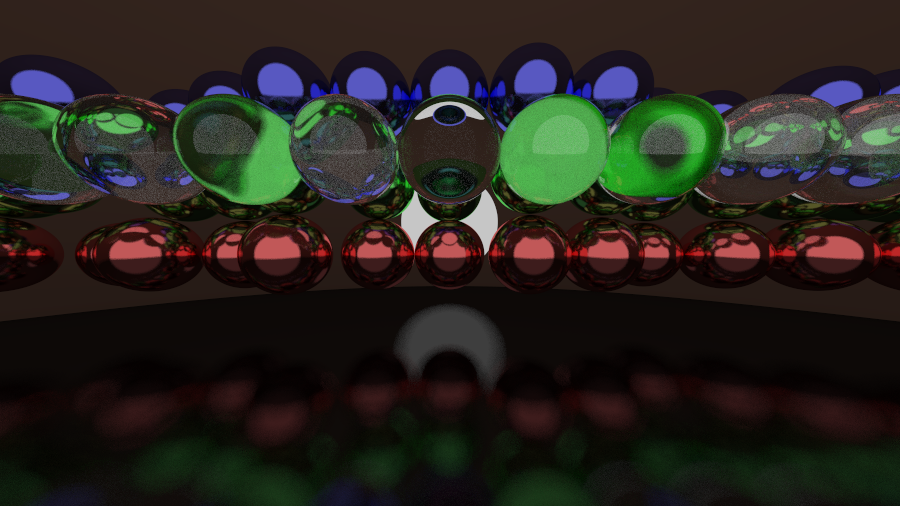
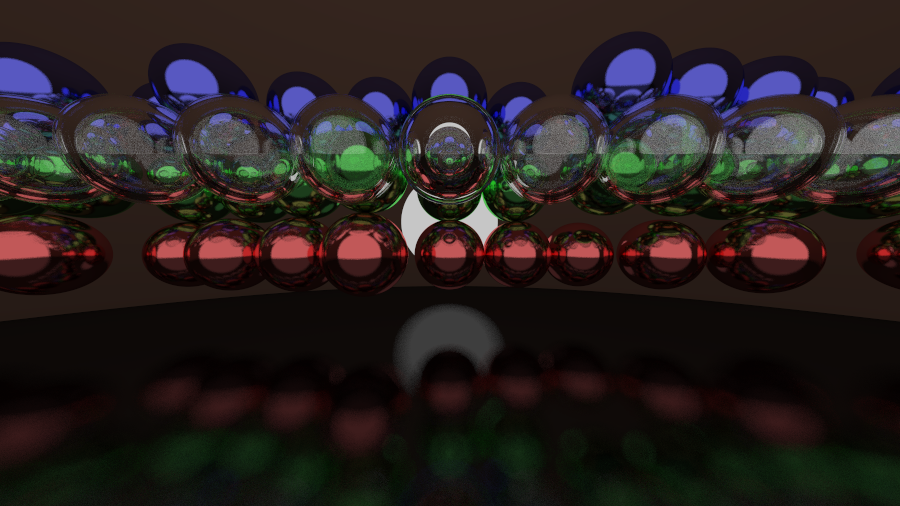
Added fov and make result reproducible

diff --git a/src/scene.rs b/src/scene.rs
@@ -8,51 +8,65 @@ use crate::*;
 pub const OUTPUT_NAME: &str = "scene_output.png";
 
 // Rendering settings
-pub const ASPECT_RATION: f32 = 16.0 / 9.0;
+pub const ASPECT_RATIO: f32 = 16.0 / 9.0;
 pub const WIDTH: usize = 900;
-pub const HEIGHT: usize = (WIDTH as f32 / ASPECT_RATION) as usize;
+pub const HEIGHT: usize = (WIDTH as f32 / ASPECT_RATIO) as usize;
 pub const SAMPLE_PER_PIXEL: usize = 100;
 pub const MAX_DEPTH: usize = 50;
 
 // Material definition
-pub const MATERIAL_GROUND: Lambertian = Lambertian::new(Color::new(0.8, 0.8, 0.0));
-pub const MATERIAL_CENTER: Lambertian = Lambertian::new(Color::new(0.1, 0.2, 0.5));
-pub const MATERIAL_LEFT: Dielectic = Dielectic::new(1.5);
-pub const MATERIAL_RIGHT: Metal = Metal::new(Color::new(0.8, 0.6, 0.2), 0.0);
+pub const MATERIAL_LEFT: Lambertian = Lambertian::new(Color::new(0.0, 0.0, 1.0));
+pub const MATERIAL_RIGHT: Lambertian = Lambertian::new(Color::new(1.0, 0.0, 0.0));
+// pub const MATERIAL_GROUND: Lambertian = Lambertian::new(Color::new(0.8, 0.8,
+// 0.0)); pub const MATERIAL_CENTER: Lambertian =
+// Lambertian::new(Color::new(0.1, 0.2, 0.5)); pub const MATERIAL_LEFT:
+// Dielectic = Dielectic::new(1.5); pub const MATERIAL_RIGHT: Metal =
+// Metal::new(Color::new(0.8, 0.6, 0.2), 0.0);
 
 // Object creation
 pub fn init_world_and_camera() {
     let mut world = HittableList::default();
+    // world.add(Box::new(Sphere::new(
+    //     glm::vec3(0.0, -100.5, -1.0),
+    //     100.0,
+    //     Arc::new(MATERIAL_GROUND),
+    // )));
+    // world.add(Box::new(Sphere::new(
+    //     glm::vec3(0.0, 0.0, -1.0),
+    //     0.5,
+    //     Arc::new(MATERIAL_CENTER),
+    // )));
+    // world.add(Box::new(Sphere::new(
+    //     glm::vec3(-1.0, 0.0, -1.0),
+    //     0.5,
+    //     Arc::new(MATERIAL_LEFT),
+    // )));
+    // world.add(Box::new(Sphere::new(
+    //     glm::vec3(-1.0, 0.0, -1.0),
+    //     -0.4,
+    //     Arc::new(MATERIAL_LEFT),
+    // )));
+    // world.add(Box::new(Sphere::new(
+    //     glm::vec3(1.0, 0.0, -1.0),
+    //     0.5,
+    //     Arc::new(MATERIAL_RIGHT),
+    // )));
+    let r = (std::f32::consts::PI / 4.0).cos();
     world.add(Box::new(Sphere::new(
-        glm::vec3(0.0, -100.5, -1.0),
-        100.0,
-        Arc::new(MATERIAL_GROUND),
-    )));
-    world.add(Box::new(Sphere::new(
-        glm::vec3(0.0, 0.0, -1.0),
-        0.5,
-        Arc::new(MATERIAL_CENTER),
-    )));
-    world.add(Box::new(Sphere::new(
-        glm::vec3(-1.0, 0.0, -1.0),
-        0.5,
+        glm::vec3(-r, 0.0, -1.0),
+        r,
         Arc::new(MATERIAL_LEFT),
     )));
     world.add(Box::new(Sphere::new(
-        glm::vec3(-1.0, 0.0, -1.0),
-        -0.4,
-        Arc::new(MATERIAL_LEFT),
-    )));
-    world.add(Box::new(Sphere::new(
-        glm::vec3(1.0, 0.0, -1.0),
-        0.5,
+        glm::vec3(r, 0.0, -1.0),
+        r,
         Arc::new(MATERIAL_RIGHT),
     )));
     if WORLD.set(world).is_err() {
         panic!("Tried to set WORLD twice. This is a bug");
     }
 
-    let camera = Camera::new();
+    let camera = Camera::new(90.0, ASPECT_RATIO);
     if CAMERA.set(camera).is_err() {
         panic!("Tried to set CAMERA twice. This is a bug");
     }

diff --git a/src/my_scene.rs b/src/my_scene.rs
@@ -7,9 +7,9 @@ use crate::*;
 // Give a name to the output file. Png is the recommended file format
 pub const OUTPUT_NAME: &str = "my_scene_output.png";
 
-pub const ASPECT_RATION: f32 = 16.0 / 9.0;
+pub const ASPECT_RATIO: f32 = 16.0 / 9.0;
 pub const WIDTH: usize = 900;
-pub const HEIGHT: usize = (WIDTH as f32 / ASPECT_RATION) as usize;
+pub const HEIGHT: usize = (WIDTH as f32 / ASPECT_RATIO) as usize;
 pub const SAMPLE_PER_PIXEL: usize = 80;
 pub const MAX_DEPTH: usize = 25;
 
@@ -28,6 +28,7 @@ const LDIF: f32 = 0.60;
 pub const LIGHT: LightSource = LightSource::new(Color::new(LMAX, LMED, LDIF));
 
 pub fn init_world_and_camera() {
+    let mut r = StdRng::seed_from_u64(SEED);
     let mut world = HittableList::default();
     world.add(Box::new(Sphere::new(
         glm::vec3(0.0, -100.9, -1.0),
@@ -41,21 +42,21 @@ pub fn init_world_and_camera() {
     // )));
     for x in -9..9 {
         world.add(Box::new(Sphere::new(
-            glm::vec3(x as f32, 0.0, -3.0 - rand::random::<f32>()),
+            glm::vec3(x as f32, 0.0, -3.0 - r.gen::<f32>()),
             0.5,
             Arc::new(RED_METAL),
         )));
     }
     for x in -9..9 {
         world.add(Box::new(Sphere::new(
-            glm::vec3(x as f32, 1.0, -3.0 - rand::random::<f32>()),
+            glm::vec3(x as f32, 1.0, -3.0 - r.gen::<f32>()),
             0.5,
             Arc::new(GREEN_METAL),
         )));
     }
     for x in -9..9 {
         world.add(Box::new(Sphere::new(
-            glm::vec3(x as f32, 2.0, -3.0 - rand::random::<f32>()),
+            glm::vec3(x as f32, 2.0, -3.0 - r.gen::<f32>()),
             0.5,
             Arc::new(BLUE_METAL),
         )));
@@ -64,6 +65,11 @@ pub fn init_world_and_camera() {
         world.add(Box::new(Sphere::new(
             glm::vec3(x as f32, 1.0, -2.5),
             0.5,
+            Arc::new(Dielectic::new(2.0 + x as f32 / 10.0)),
+        )));
+        world.add(Box::new(Sphere::new(
+            glm::vec3(x as f32, 1.0, -2.5),
+            -0.4,
             Arc::new(Dielectic::new(2.0 + x as f32 / 10.0)),
         )));
     }
@@ -86,7 +92,7 @@ pub fn init_world_and_camera() {
         panic!("Tried to set WORLD twice. This is a bug");
     }
 
-    let camera = Camera::new();
+    let camera = Camera::new(90.0, ASPECT_RATIO);
     if CAMERA.set(camera).is_err() {
         panic!("Tried to set CAMERA twice. This is a bug");
     }

diff --git a/src/main.rs b/src/main.rs
@@ -24,6 +24,8 @@ use crate::hittable::Hittable;
 extern crate nalgebra_glm as glm;
 use image::{Rgb, RgbImage};
 use once_cell::sync::OnceCell;
+use rand::rngs::StdRng;
+use rand::{Rng, SeedableRng};
 use rand_distr::{Distribution, UnitBall};
 use rayon::prelude::*;
 
@@ -35,6 +37,9 @@ const fn from_u8_0rgb(r: u8, g: u8, b: u8) -> u32 {
     let (r, g, b) = (r as u32, g as u32, b as u32);
     (r << 16) | (g << 8) | b
 }
+
+// Set a seed to get reproductible results every time
+pub const SEED: u64 = 123;
 
 type Color = glm::Vec3;
 
@@ -73,6 +78,8 @@ fn main() {
     );
 
     save_buffer(&buffer, save_path);
+
+    eprintln!("Image saved to {save_path}");
 
     // Loop to keep window open
     while window.is_open() && !window.is_key_down(Key::Escape) {
@@ -169,14 +176,24 @@ fn out_color(pixel_color: Color) -> (u8, u8, u8) {
 }
 
 #[inline]
-fn random_in_unit_sphere() -> glm::Vec3 {
-    glm::make_vec3(&UnitBall.sample(&mut rand::thread_rng())).normalize()
+fn random_in_unit_sphere(seed: f32) -> glm::Vec3 {
+    // Get a different value for small differences in rec.point by casting its
+    // f64 sum to a u64.
+    // Maybe using a real hash would be better ? I don't know if the overhead is
+    // necessary, and this implementation already works well.
+    let hash = unsafe {
+        // Safety: the function argument always returns a f64 so transmuting to u64
+        // works.
+        std::mem::transmute_copy::<_, u64>(&(seed as f64))
+    };
+    let r = &mut StdRng::seed_from_u64(hash);
+    glm::make_vec3(&UnitBall.sample(r)).normalize()
 }
 
 #[allow(unused)]
 #[inline]
-fn random_in_hemishpere(normal: &glm::Vec3) -> glm::Vec3 {
-    let in_unit_sphere = random_in_unit_sphere();
+fn random_in_hemishpere(normal: &glm::Vec3, seed: f32) -> glm::Vec3 {
+    let in_unit_sphere = random_in_unit_sphere(seed);
     if in_unit_sphere.dot(normal) > 0.0 {
         in_unit_sphere
     } else {

diff --git a/src/camera.rs b/src/camera.rs
@@ -7,23 +7,25 @@ pub struct Camera {
 }
 
 impl Camera {
-    pub fn new() -> Camera {
-        const ASPECT_RATION: f32 = 16.0 / 9.0;
-        const VIEW_PORT_HEIGHT: f32 = 2.0;
-        const VIEW_PORT_WIDTH: f32 = ASPECT_RATION * VIEW_PORT_HEIGHT;
+    pub fn new(vfov: f32, aspect_ratio: f32) -> Camera {
+        let theta = vfov.to_radians();
+        let h = (theta / 2.0).tan();
+
+        let view_port_height = 2.0 * h;
+        let view_port_width = aspect_ratio * view_port_height;
         const FOCAL_LENGTH: f32 = 1.0;
 
         const ORIGIN: glm::Vec3 = glm::Vec3::new(0.0, 0.0, 0.0);
-        const HORIZONTAL: glm::Vec3 = glm::Vec3::new(VIEW_PORT_WIDTH, 0.0, 0.0);
-        const VERTICAL: glm::Vec3 = glm::Vec3::new(0.0, VIEW_PORT_HEIGHT, 0.0);
+        let horizontal: glm::Vec3 = glm::Vec3::new(view_port_width, 0.0, 0.0);
+        let vertical: glm::Vec3 = glm::Vec3::new(0.0, view_port_height, 0.0);
 
         let lower_left_corner =
-            ORIGIN - HORIZONTAL / 2. - VERTICAL / 2. - glm::Vec3::new(0.0, 0.0, FOCAL_LENGTH);
+            ORIGIN - horizontal / 2. - vertical / 2. - glm::Vec3::new(0.0, 0.0, FOCAL_LENGTH);
         Camera {
             origin: ORIGIN,
             lower_left_corner,
-            horizontal: HORIZONTAL,
-            vertical: VERTICAL,
+            horizontal,
+            vertical,
         }
     }
     pub fn get_ray(&self, u: f32, v: f32) -> Ray {

diff --git a/src/material.rs b/src/material.rs
@@ -29,7 +29,7 @@ impl Lambertian {
 
 impl Material for Lambertian {
     fn scatter(&self, _ray_in: &Ray, rec: &HitRecord) -> ScatterResponse {
-        let mut scaterred_direction = rec.normal + random_in_unit_sphere();
+        let mut scaterred_direction = rec.normal + random_in_unit_sphere(rec.point.sum());
         if scaterred_direction.is_empty() {
             scaterred_direction = rec.normal;
         }
@@ -52,7 +52,10 @@ impl Metal {
 impl Material for Metal {
     fn scatter(&self, ray_in: &Ray, rec: &HitRecord) -> ScatterResponse {
         let reflected = glm::reflect_vec(&ray_in.dir.normalize(), &rec.normal);
-        let scattered = Ray::new(rec.point, reflected + self.fuzz * random_in_unit_sphere());
+        let scattered = Ray::new(
+            rec.point,
+            reflected + self.fuzz * random_in_unit_sphere(rec.point.sum()),
+        );
         if scattered.dir.dot(&rec.normal) > 0.0 {
             Scatter(self.albedo, scattered)
         } else {

diff --git a/src/noise.rs b/src/noise.rs
@@ -17,13 +17,14 @@ pub fn randy(i: usize) -> f32 {
 }
 
 pub fn blue_noise() -> Vec<glm::Vec2> {
+    let mut r = StdRng::seed_from_u64(SEED);
     let mut samples = Vec::new();
     for sample_index in 0..SAMPLE_PER_PIXEL {
         let mut best_score = f32::NEG_INFINITY;
         let mut best_candidate: Option<glm::Vec2> = None;
         for _ in 0..sample_index + 1 {
             let mut score = f32::INFINITY;
-            let candidate = glm::Vec2::new(rand::random(), rand::random());
+            let candidate = glm::Vec2::new(r.gen(), r.gen());
             for test_sample in &samples {
                 let test_score = toroidal_distance(&candidate, test_sample);
                 score = score.min(test_score);
